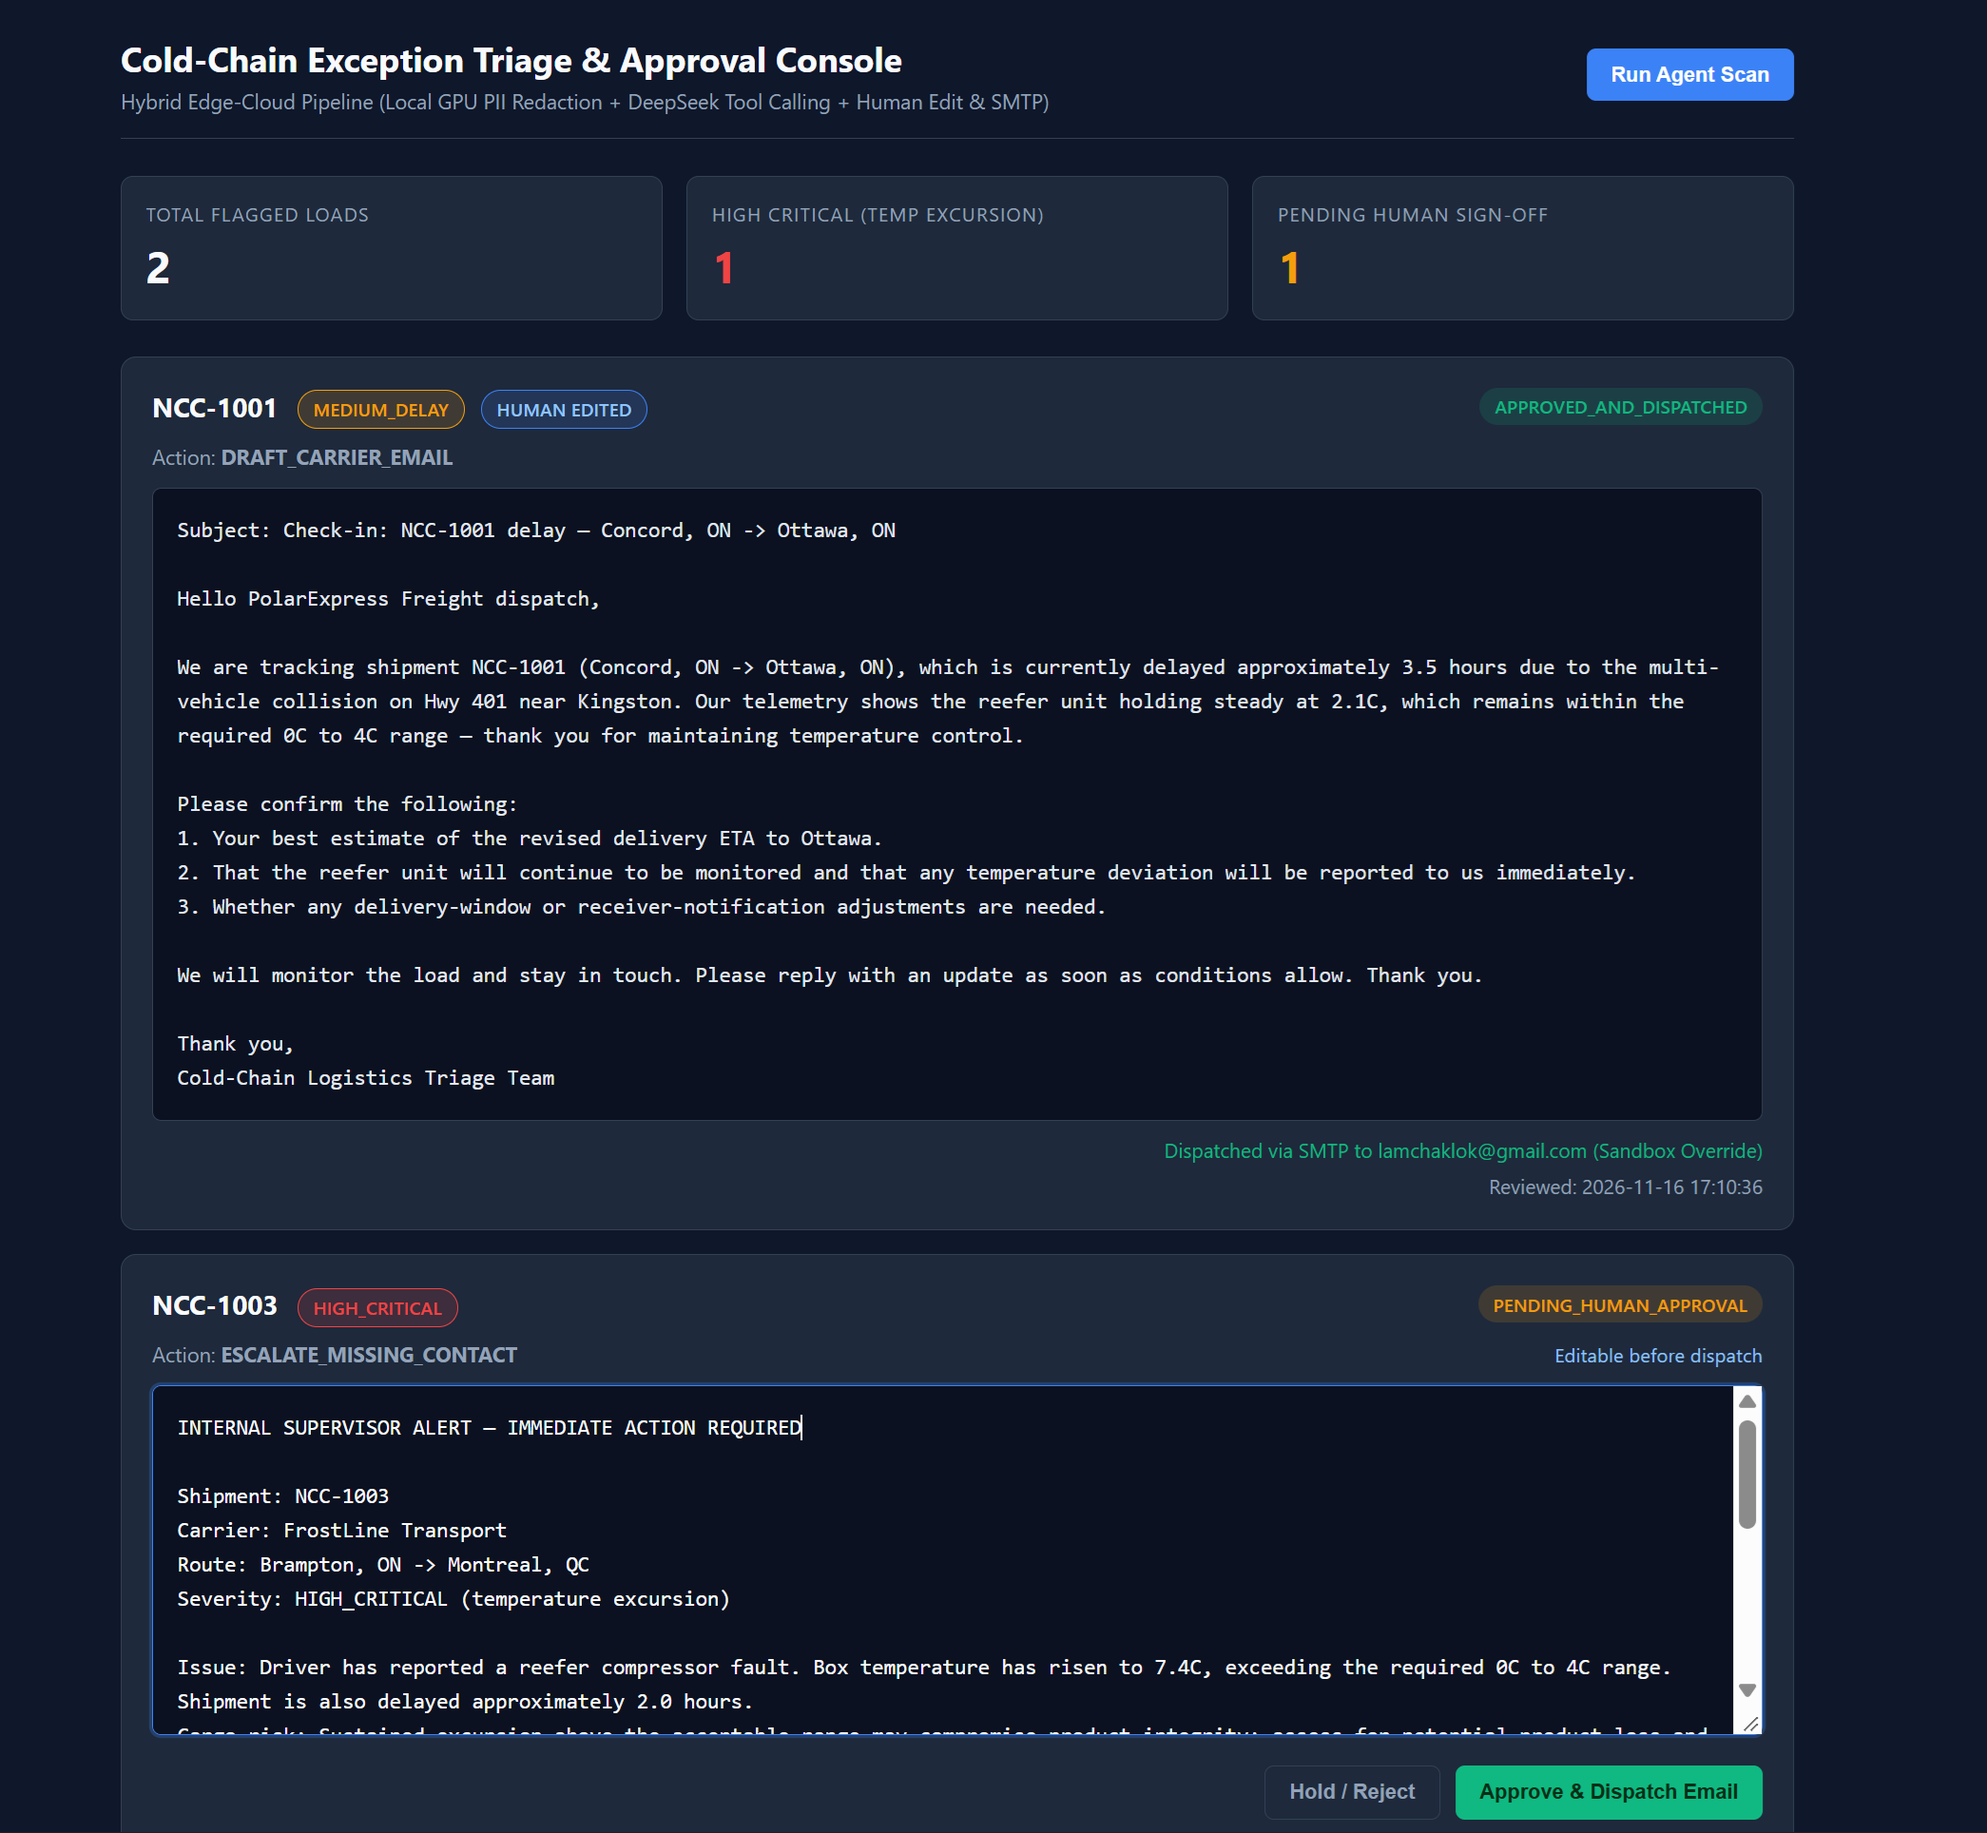
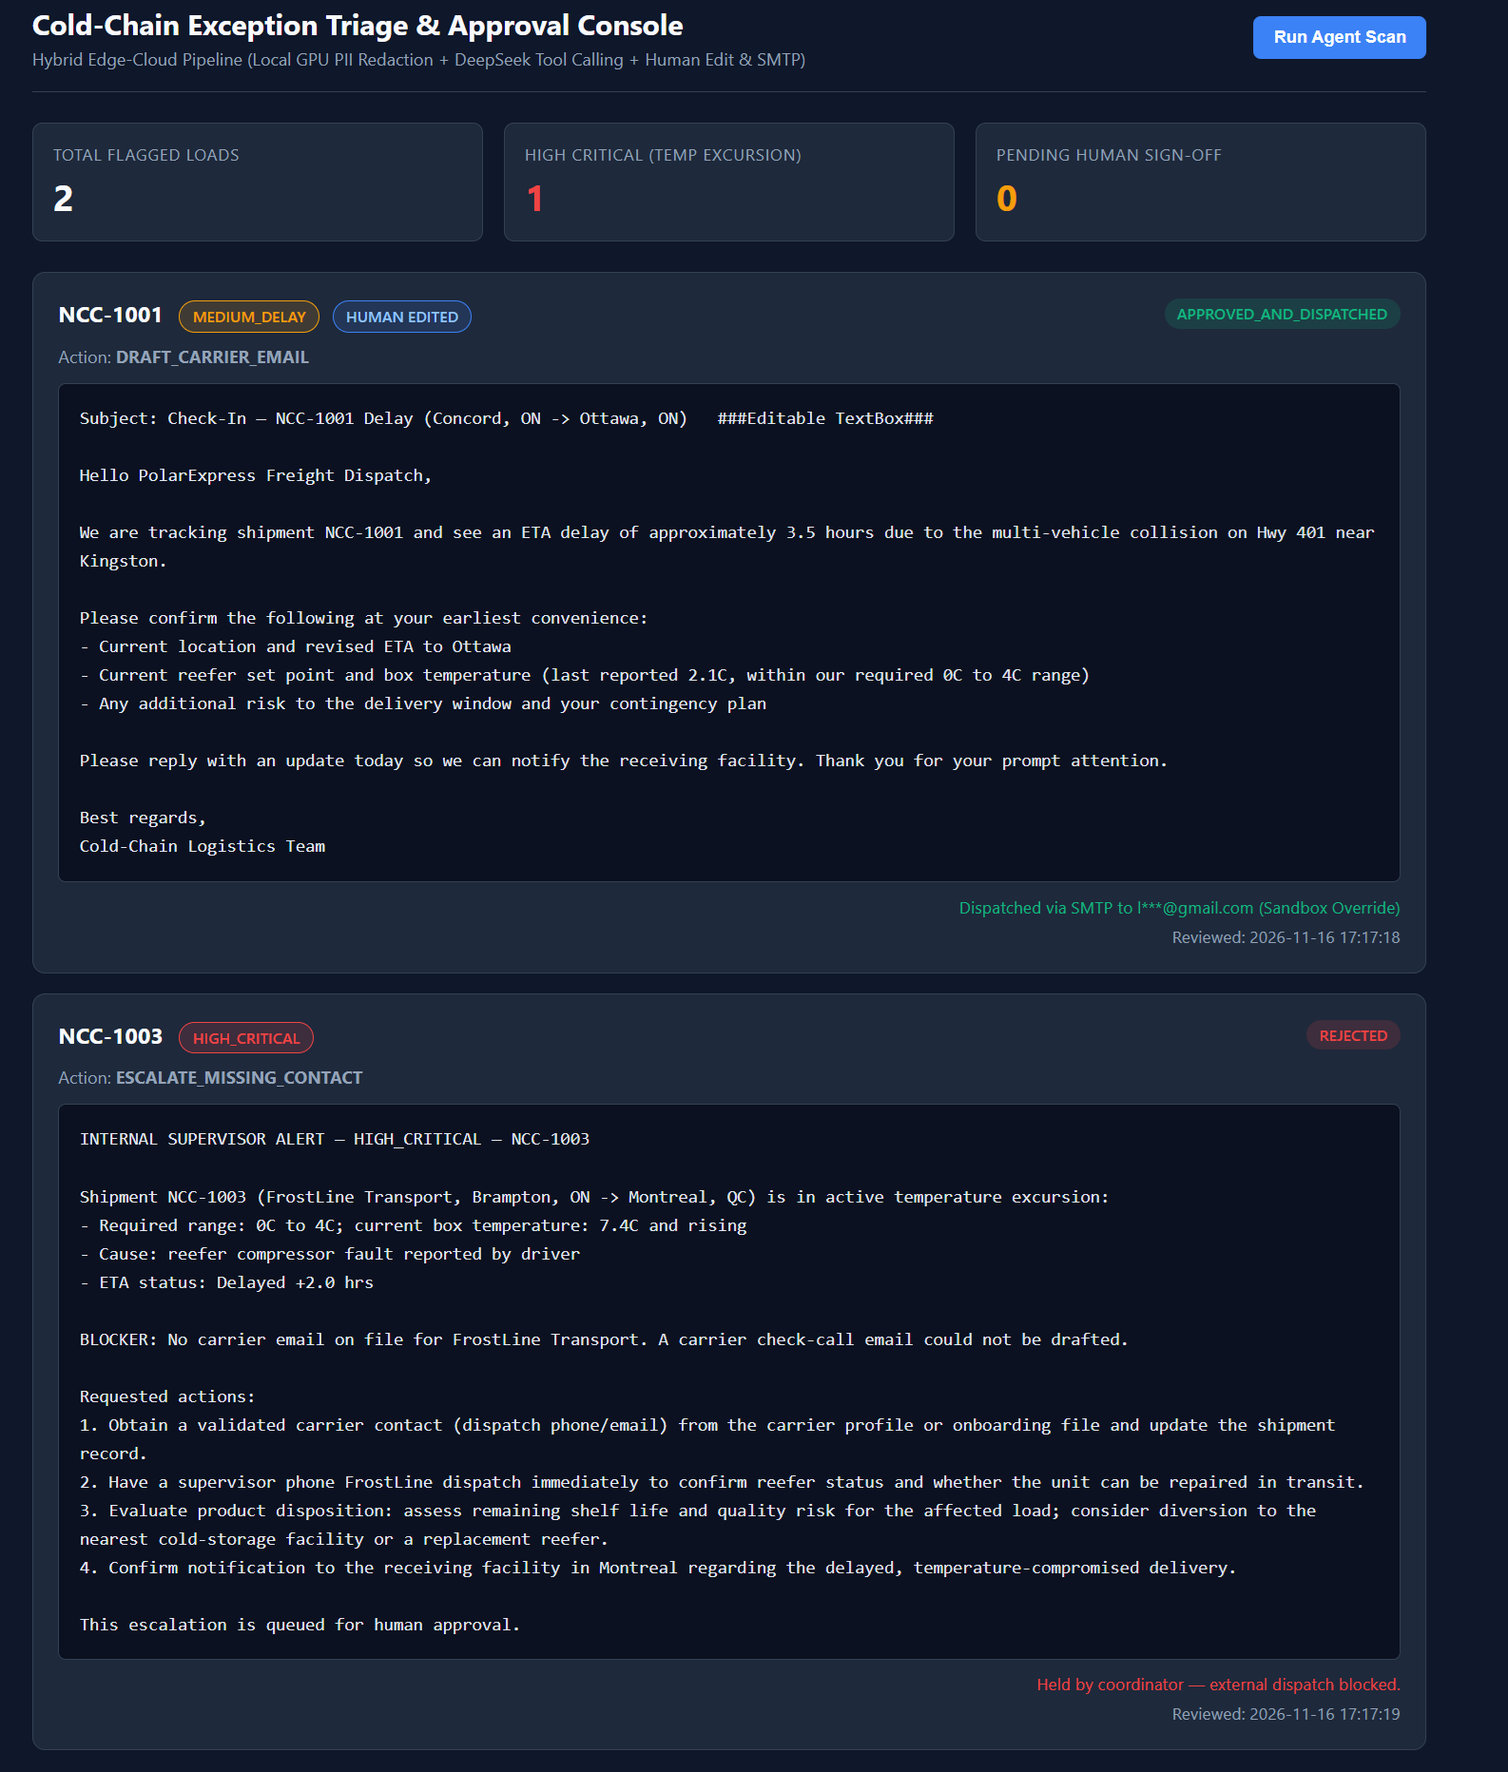
fix: mask recipient email in dashboard SMTP dispatch logs and update preview

diff --git a/dashboard.py b/dashboard.py
@@ -154,8 +154,9 @@ def dispatch_real_email(record: dict) -> tuple[bool, str]:
         with smtplib.SMTP_SSL(smtp_host, smtp_port, timeout=15) as server:
             server.login(smtp_user, smtp_pass)
             server.send_message(msg)
+        masked = recipient[0] + "***@" + recipient.split("@")[-1] if "@" in recipient else recipient
         mode_tag = " (Sandbox Override)" if override_email else ""
-        return True, f"Dispatched via SMTP to {recipient}{mode_tag}"
+        return True, f"Dispatched via SMTP to {masked}{mode_tag}"
     except Exception as e:
         return False, f"SMTP Error: {str(e)}"
 
